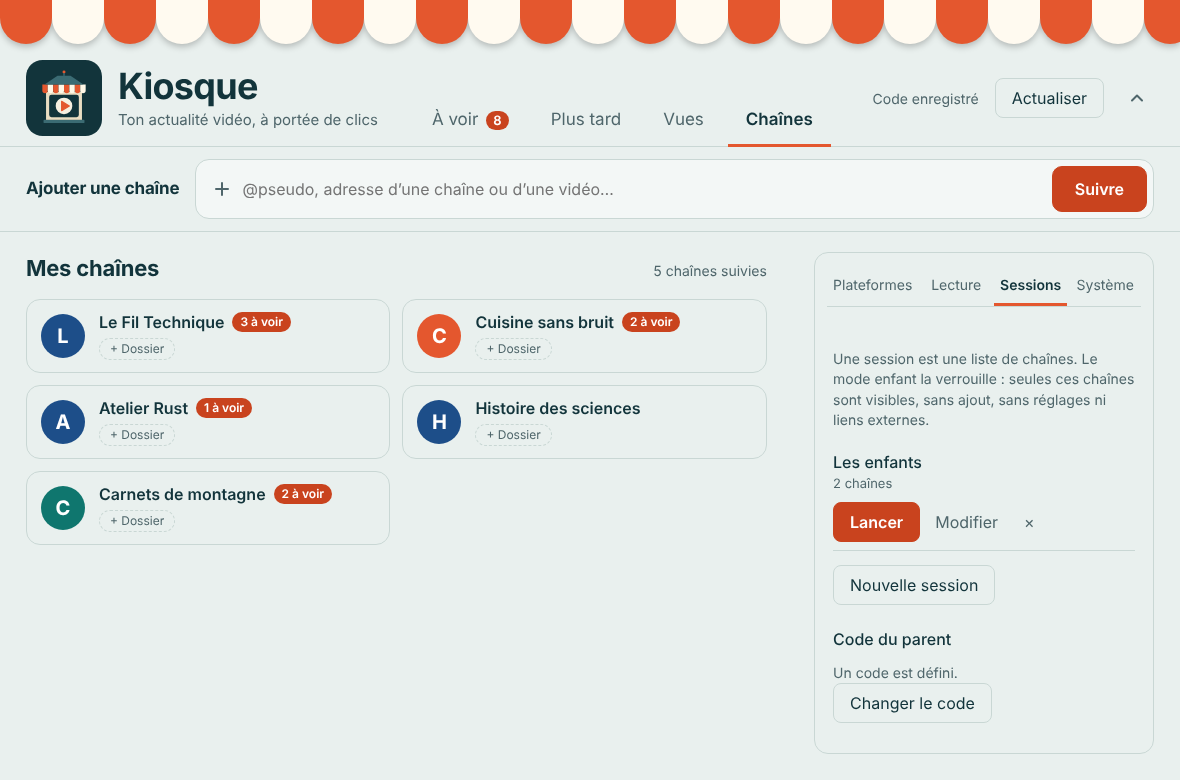
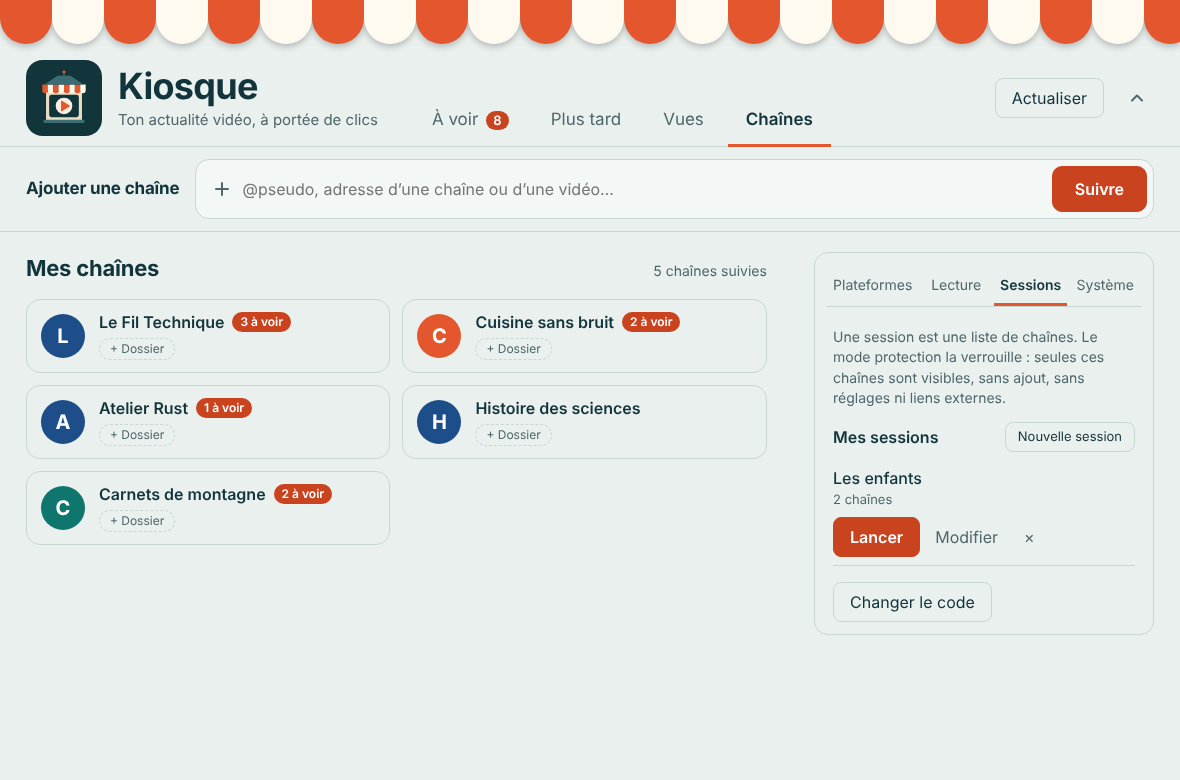
Mise à jour 2026-10-29 18:40 (v0.3.6)

diff --git a/src/main.js b/src/main.js
@@ -40,7 +40,7 @@ const app = {
   sub: (() => { try { return localStorage.getItem('sub') || 'platforms'; } catch { return 'mine'; } })(),
   version: '',
   busy: false,
-  kid: { active: false, session_name: '', has_pin: false }, // mode enfant
+  kid: { active: false, session_name: '', has_pin: false }, // mode protection
   sessions: [],
   sessionEdit: null, // session en cours de modification : { id, name, channels:Set }
   pinForm: false,
@@ -352,7 +352,7 @@ function emptyState() {
   const n = app.channels.length;
   if (app.kid.active && n === 0) {
     return `<div class="empty"><img src="logo.svg" alt=""><h2>${t('Aucune chaîne dans cette session')}</h2>
-      <p>${t('Un parent peut en ajouter dans Chaînes → Sessions.')}</p></div>`;
+      <p>${t('Quitte le mode protection pour ajouter des chaînes à cette session.')}</p></div>`;
   }
   if (app.tab === 'new') {
     if (n === 0) {
@@ -519,9 +519,13 @@ const PLAYER_HINTS = {
   browser: 'La vidéo s’ouvre dans ton navigateur habituel.',
 }; // traduits à l'affichage
 
-// ---------- sessions et mode enfant ----------
+// ---------- sessions et mode protection ----------
 
 function sessionsPanel() {
+  return `<div class="sessions-panel">${sessionsPanelBody()}</div>`;
+}
+
+function sessionsPanelBody() {
   const ed = app.sessionEdit;
   if (ed) {
     const rows = app.channels.map((c) => `<label class="pick"><input type="checkbox" data-pick="${esc(c.id)}" ${ed.channels.has(c.id) ? 'checked' : ''}>
@@ -536,29 +540,36 @@ function sessionsPanel() {
   const list = app.sessions.length
     ? `<ul class="sessions">${app.sessions.map((s) => `<li data-session="${esc(s.id)}">
         <span class="sname">${esc(s.name)}<span class="note">${tn(s.channels.length, '{n} chaîne', '{n} chaînes')}</span></span>
-        <span class="sact"><button type="button" class="primary small" data-act="session-launch">${t('Lancer')}</button>
+        <span class="sact">${app.kid.has_pin ? `<button type="button" class="primary small" data-act="session-launch">${t('Lancer')}</button>` : ''}
           <button type="button" class="quiet" data-act="session-edit">${t('Modifier')}</button>
           <button type="button" class="quiet" data-act="session-delete" aria-label="${esc(t('Supprimer {name}', { name: s.name }))}" title="${esc(t('Supprimer cette session'))}">×</button></span></li>`).join('')}</ul>`
     : `<p class="hint">${t('Aucune session pour l’instant.')}</p>`;
-  const pin = app.kid.has_pin
-    ? `<p class="hint">${t('Un code est défini.')}</p>`
-    : `<p class="hint">${t('Aucun code : choisis-en un avant de lancer le mode enfant.')}</p>`;
-  const pinForm = app.pinForm
-    ? `${app.kid.has_pin ? `<input id="pin-current" class="text" type="password" inputmode="numeric" maxlength="4" autocomplete="off" placeholder="${esc(t('Code actuel'))}" aria-label="${esc(t('Code actuel'))}">` : ''}
-       <input id="pin-new" class="text" type="password" inputmode="numeric" maxlength="4" autocomplete="off" placeholder="${esc(t('Nouveau code (4 chiffres)'))}" aria-label="${esc(t('Nouveau code (4 chiffres)'))}">
-       <div class="row-actions"><button type="button" class="primary" data-act="pin-save">${t('Enregistrer')}</button>
-         <button type="button" class="quiet" data-act="pin-cancel">${t('Annuler')}</button></div>`
-    : `<button type="button" data-act="pin-open">${app.kid.has_pin ? t('Changer le code') : t('Choisir un code')}</button>`;
-  return `<p class="hint">${t('Une session est une liste de chaînes. Le mode enfant la verrouille : seules ces chaînes sont visibles, sans ajout, sans réglages ni liens externes.')}</p>
+  // Assistant : pas de session = pas de code. Dès la première session, on choisit le code (vide = 0000).
+  // Ensuite la zone du code reste repliée derrière « Changer le code ».
+  const hasPin = app.kid.has_pin;
+  const hasSessions = app.sessions.length > 0;
+  const codeForm = !hasPin || app.pinForm;
+  let codeZone = '';
+  if (hasSessions || hasPin) {
+    codeZone = codeForm
+      ? `<div class="field pin"><span class="switch-label">${t('Code de protection')}</span>
+          <p class="hint">${hasPin ? t('Ce code est unique : il est valable pour toutes les sessions.') : t('Valable pour toutes les sessions. Laisse vide pour utiliser 0000.')}</p>
+          ${hasPin ? `<input id="pin-current" class="text" type="password" inputmode="numeric" maxlength="4" autocomplete="off" placeholder="${esc(t('Code actuel'))}" aria-label="${esc(t('Code actuel'))}">` : ''}
+          <input id="pin-new" class="text" type="password" inputmode="numeric" maxlength="4" autocomplete="off" placeholder="${esc(t('Nouveau code (4 chiffres)'))}" aria-label="${esc(t('Nouveau code (4 chiffres)'))}">
+          <div class="row-actions"><button type="button" class="primary" data-act="pin-save">${t('Enregistrer')}</button>
+            ${hasPin ? `<button type="button" class="quiet" data-act="pin-cancel">${t('Annuler')}</button>` : ''}</div></div>`
+      : `<div class="field pin"><button type="button" data-act="pin-open">${t('Changer le code')}</button></div>`;
+  }
+  return `<p class="hint">${t('Une session est une liste de chaînes. Le mode protection la verrouille : seules ces chaînes sont visibles, sans ajout, sans réglages ni liens externes.')}</p>
+    <div class="sp-head"><span class="switch-label">${t('Mes sessions')}</span>${codeForm && hasSessions ? '' : `<button type="button" data-act="session-new">${t('Nouvelle session')}</button>`}</div>
     ${list}
-    <div class="row-actions"><button type="button" data-act="session-new">${t('Nouvelle session')}</button></div>
-    <div class="field pin"><span class="switch-label">${t('Code du parent')}</span>${pin}${pinForm}</div>`;
+    ${codeZone}`;
 }
 
 /** Sauvegarde et transfert des sessions (réglages Système). */
 function sessionsBackup() {
   return `<div class="field backup"><span class="switch-label">${t('Sauvegarde des sessions')}</span>
-      <p class="hint">${t('Gère tes sessions dans un fichier pour les exporter ou les importer sur un autre ordinateur. Le code du parent s’il existe n’y est pas inclus. Il faut en recréer un nouveau.')}</p>
+      <p class="hint">${t('Gère tes sessions dans un fichier pour les exporter ou les importer sur un autre ordinateur. Le code de protection s’il existe n’y est pas inclus. Il faut en recréer un nouveau.')}</p>
       <div class="row-actions"><button type="button" data-act="sessions-export"${app.sessions.length ? '' : ' disabled'}>${t('Exporter')}</button>
         <button type="button" data-act="sessions-import">${t('Importer')}</button>
         <input id="session-file" type="file" accept=".json,application/json" hidden></div>
@@ -574,7 +585,7 @@ function missingPanel() {
       <button type="button" class="quiet" data-act="missing-dismiss">${t('Ignorer')}</button></div></div>`;
 }
 
-/** Recharge tout après l'entrée ou la sortie du mode enfant. */
+/** Recharge tout après l'entrée ou la sortie du mode protection. */
 async function reloadAfterKidChange() {
   closePlayer();
   app.kid = await invoke('kid_status');
@@ -594,14 +605,14 @@ function applyKid() {
   const button = document.querySelector('#kid-exit');
   button.hidden = !on;
   if (on) {
-    button.querySelector('.kid-name').textContent = t('Mode enfant');
-    button.title = t('Session : {name} — quitter le mode enfant (code du parent)', { name: app.kid.session_name });
+    button.querySelector('.kid-name').textContent = t('Mode protection');
+    button.title = t('Session : {name} — quitter le mode protection (code de protection)', { name: app.kid.session_name });
     document.querySelector('#update').hidden = true;
     if (app.tab === 'channels') app.tab = 'new';
   }
 }
 
-/** Demande le code du parent dans une fenêtre ; `action(code)` doit lever une erreur si le code est refusé. */
+/** Demande le code de protection dans une fenêtre ; `action(code)` doit lever une erreur si le code est refusé. */
 function askPin(title, hint, action) {
   const modal = document.querySelector('#pin-modal');
   const input = document.querySelector('#pin-input');
@@ -642,10 +653,10 @@ function askPin(title, hint, action) {
 }
 
 document.querySelector('#kid-exit').addEventListener('click', async () => {
-  const done = await askPin(t('Code du parent'), t('Saisis le code pour quitter le mode enfant.'), (pin) => invoke('kid_stop', { pin }));
+  const done = await askPin(t('Code de protection'), t('Saisis le code pour quitter le mode protection.'), (pin) => invoke('kid_stop', { pin }));
   if (!done) return;
   await reloadAfterKidChange();
-  setStatus(t('Mode enfant désactivé'));
+  setStatus(t('Mode protection désactivé'));
 });
 
 view.addEventListener('input', (event) => {
@@ -666,7 +677,7 @@ view.addEventListener('change', async (event) => {
     if (!app.kid.has_pin) {
       let byDefault = false;
       const done = await askPin(
-        t('Code du parent'),
+        t('Code de protection'),
         t('Choisis un code à 4 chiffres pour cet ordinateur. Laisse vide pour utiliser 0000.'),
         (pin) => {
           byDefault = pin.trim() === '';
@@ -674,7 +685,7 @@ view.addEventListener('change', async (event) => {
         },
       );
       app.kid = await invoke('kid_status');
-      if (done) setStatus(byDefault ? t('Code 0000 défini : à changer.') : t('Code du parent enregistré'));
+      if (done) setStatus(byDefault ? t('Code 0000 défini : à changer.') : t('Code de protection enregistré'));
       renderChannels();
     }
   } catch (err) {
@@ -921,11 +932,11 @@ view.addEventListener('click', async (event) => {
         if (!app.kid.has_pin) {
           app.pinForm = true;
           renderChannels();
-          return setStatus(t('Choisis d’abord un code du parent.'), 'error');
+          return setStatus(t('Choisis d’abord un code de protection.'), 'error');
         }
         await invoke('kid_start', { sessionId: button.closest('[data-session]').dataset.session });
         await reloadAfterKidChange();
-        return setStatus(t('Mode enfant activé'));
+        return setStatus(t('Mode protection activé'));
       }
       case 'sessions-export': {
         const path = await invoke('sessions_export');
@@ -956,11 +967,14 @@ view.addEventListener('click', async (event) => {
         return renderChannels();
       case 'pin-save': {
         const current = document.querySelector('#pin-current')?.value ?? null;
-        await invoke('kid_set_pin', { pin: document.querySelector('#pin-new').value, current });
+        let pin = document.querySelector('#pin-new').value;
+        const byDefault = !app.kid.has_pin && pin.trim() === '';
+        if (byDefault) pin = '0000';
+        await invoke('kid_set_pin', { pin, current });
         app.kid = await invoke('kid_status');
         app.pinForm = false;
         renderChannels();
-        return setStatus(t('Code enregistré'));
+        return setStatus(byDefault ? t('Code 0000 défini : à changer.') : t('Code enregistré'));
       }
       case 'reset-filters':
         minimizePlayer();

diff --git a/src/i18n.js b/src/i18n.js
@@ -141,11 +141,14 @@ const EN = {
   'Automatique': 'Automatic',
   '{label} activé': '{label} on',
   '{label} désactivé': '{label} off',
+  'Valable pour toutes les sessions. Laisse vide pour utiliser 0000.': 'Applies to all sessions. Leave empty to use 0000.',
+  'Mes sessions': 'My sessions',
+  'Ce code est unique : il est valable pour toutes les sessions.': 'This code is unique: it applies to all sessions.',
   'Choisis un code à 4 chiffres pour cet ordinateur. Laisse vide pour utiliser 0000.': 'Choose a 4-digit code for this computer. Leave empty to use 0000.',
   'Code 0000 défini : à changer.': 'Code 0000 set: change it.',
-  'Code du parent enregistré': 'Parent code saved',
+  'Code de protection enregistré': 'Protection code saved',
   'Sauvegarde des sessions': 'Sessions backup',
-  'Gère tes sessions dans un fichier pour les exporter ou les importer sur un autre ordinateur. Le code du parent s’il existe n’y est pas inclus. Il faut en recréer un nouveau.': 'Manage your sessions in a file to export them or import them on another computer. The parent code, if there is one, is not included: you need to create a new one.',
+  'Gère tes sessions dans un fichier pour les exporter ou les importer sur un autre ordinateur. Le code de protection s’il existe n’y est pas inclus. Il faut en recréer un nouveau.': 'Manage your sessions in a file to export them or import them on another computer. The protection code, if there is one, is not included: you need to create a new one.',
   'Exporter': 'Export',
   'Importer': 'Import',
   '{n} chaîne de ces sessions n’est pas encore suivie ici :': '{n} channel from these sessions is not followed here yet:',
@@ -158,10 +161,10 @@ const EN = {
   '{n} chaîne(s) non ajoutée(s) : {detail}': '{n} channel(s) not added: {detail}',
   '{n} chaîne ajoutée': '{n} channel added',
   '{n} chaînes ajoutées': '{n} channels added',
-  'Mode enfant': 'Kid mode',
-  'Session : {name} — quitter le mode enfant (code du parent)': 'Session: {name} — leave kid mode (parent code)',
+  'Mode protection': 'Protection mode',
+  'Session : {name} — quitter le mode protection (code de protection)': 'Session: {name} — leave protection mode (protection code)',
   'Aucune chaîne dans cette session': 'No channels in this session',
-  'Un parent peut en ajouter dans Chaînes → Sessions.': 'A parent can add some in Channels → Sessions.',
+  'Quitte le mode protection pour ajouter des chaînes à cette session.': 'Leave protection mode to add channels to this session.',
   'Sessions': 'Sessions',
   'Nom de la session': 'Session name',
   'Ex. : Les enfants': 'e.g. The kids',
@@ -176,25 +179,24 @@ const EN = {
   'Supprimer cette session': 'Delete this session',
   'Aucune session pour l’instant.': 'No sessions yet.',
   'Un code est défini.': 'A code is set.',
-  'Aucun code : choisis-en un avant de lancer le mode enfant.': 'No code yet: choose one before starting kid mode.',
   'Code actuel': 'Current code',
   'Nouveau code (4 chiffres)': 'New code (4 digits)',
   'Changer le code': 'Change code',
   'Choisir un code': 'Choose a code',
-  'Une session est une liste de chaînes. Le mode enfant la verrouille : seules ces chaînes sont visibles, sans ajout, sans réglages ni liens externes.': 'A session is a list of channels. Kid mode locks the app to it: only those channels are visible, with no adding, no settings and no external links.',
+  'Une session est une liste de chaînes. Le mode protection la verrouille : seules ces chaînes sont visibles, sans ajout, sans réglages ni liens externes.': 'A session is a list of channels. Protection mode locks the app to it: only those channels are visible, with no adding, no settings and no external links.',
   'Nouvelle session': 'New session',
-  'Code du parent': 'Parent code',
-  'Mode enfant : {name}': 'Kid mode: {name}',
-  'Saisis le code pour quitter le mode enfant.': 'Enter the code to leave kid mode.',
-  'Mode enfant désactivé': 'Kid mode off',
+  'Code de protection': 'Protection code',
+  'Mode protection : {name}': 'Protection mode: {name}',
+  'Saisis le code pour quitter le mode protection.': 'Enter the code to leave protection mode.',
+  'Mode protection désactivé': 'Protection mode off',
   'Session enregistrée': 'Session saved',
   'Session supprimée': 'Session deleted',
-  'Choisis d’abord un code du parent.': 'Choose a parent code first.',
-  'Mode enfant activé': 'Kid mode on',
+  'Choisis d’abord un code de protection.': 'Choose a protection code first.',
+  'Mode protection activé': 'Protection mode on',
   'Code enregistré': 'Code saved',
   'Valider': 'OK',
-  'Quitter le mode enfant': 'Leave kid mode',
-  'Quitter le mode enfant (code du parent)': 'Leave kid mode (parent code)',
+  'Quitter le mode protection': 'Leave protection mode',
+  'Quitter le mode protection (code de protection)': 'Leave protection mode (protection code)',
 };
 
 const AVAILABLE_LANGUAGES = ['fr', 'en'];

diff --git a/src/style.css b/src/style.css
@@ -791,3 +791,17 @@ body.kid .tabs [data-tab="channels"] { display: none; }
   @keyframes toast-in { from { opacity: 0; transform: translateX(-16px); } }
 }
 @media (prefers-reduced-motion: reduce) { .toast.out { opacity: 0; } .toast-icon { animation: none !important; } }
+
+/* Onglet Sessions : moins d'air en haut et en bas, bouton « Nouvelle session » avec le titre de la liste. */
+.sessions-panel { margin: -10px 0 -16px; }
+.sessions-panel > :first-child { margin-top: 0; }
+.sessions-panel > :last-child { margin-bottom: 0; }
+.sp-head { display: flex; align-items: center; justify-content: space-between; gap: 8px; margin-top: 14px; }
+.sp-head .switch-label { font-weight: 600; }
+.sp-head button { padding: 4px 12px; font-size: 13px; }
+.sessions { margin-top: 6px; }
+.field.pin { margin-top: 16px; }
+.field.pin .hint { margin: 0 0 8px; }
+.field.pin .text { max-width: none; }
+.kid-badge { max-width: none; flex-shrink: 0; }
+.sessions-panel { margin-bottom: -4px; }

diff --git a/src/index.html b/src/index.html
@@ -46,7 +46,7 @@
 
       <div class="top-actions">
         <button id="kid-exit" class="kid-badge" type="button" hidden
-                title="Quitter le mode enfant (code du parent)" data-t-title="Quitter le mode enfant (code du parent)" data-t-aria="Quitter le mode enfant">
+                title="Quitter le mode protection (code de protection)" data-t-title="Quitter le mode protection (code de protection)" data-t-aria="Quitter le mode protection">
           <svg viewBox="0 0 20 20" width="16" height="16" aria-hidden="true" focusable="false"><path d="M6 9V6.5a4 4 0 0 1 8 0V9M4.5 9h11v8h-11z" fill="none" stroke="currentColor" stroke-width="1.8" stroke-linejoin="round"/></svg>
           <span class="kid-name"></span>
         </button>

diff --git a/src-tauri/src/lib.rs b/src-tauri/src/lib.rs
@@ -27,8 +27,8 @@ struct AppState {
 fn require_unlocked(state: &AppState) -> Result<(), String> {
     if kids::active(&state.db).ok().flatten().is_some() {
         return Err(tr!(
-            "Indisponible en mode enfant : un parent doit d'abord le quitter.",
-            "Not available in kids mode: a parent must leave it first."
+            "Indisponible en mode protection : il faut d'abord le quitter.",
+            "Not available in protection mode: leave it first."
         ));
     }
     Ok(())

diff --git a/README.md b/README.md
@@ -82,23 +82,25 @@ Sous Windows, `construire.bat` fabrique l'installeur avec ton Rust local (`src-t
 
 Les titres entièrement en majuscules sont remis en minuscules (le titre d'origine s'affiche au survol) et les miniatures sont masquées par défaut (case à cocher dans Chaînes).
 
-## Sessions et mode enfant
+## Sessions et mode protection
 
-Dans **Chaînes → Sessions**, tu crées des sessions : des listes de chaînes (« Les enfants », « Info »…). Le **mode enfant** verrouille Kiosque sur une session :
+Dans **Chaînes → Sessions**, tu crées des sessions : des listes de chaînes (« Les enfants », « Info »…). Le **mode protection** verrouille Kiosque sur une session :
 
 - seules les chaînes de la session sont visibles (vidéos, compteurs, filtres) ;
 - plus d'onglet Chaînes, de réglages, d'ajout de chaîne, de liens externes ni de mise à jour ;
-- on en sort avec le **code du parent** (4 chiffres, à définir avant le premier lancement), via le bouton cadenas en haut à droite.
+- on en sort avec le **code de protection** (4 chiffres, à définir avant le premier lancement), via le bouton cadenas en haut à droite.
 
 Le verrou est appliqué aussi côté Rust (l'interface seule ne suffit pas) ; le code est stocké salé et haché, et les essais ratés sont espacés dans le temps. Le mode reste actif après redémarrage.
 
-![Onglet Sessions : liste des sessions et code du parent](docs/apercu-sessions.png)
+![Onglet Sessions : liste des sessions et code de protection](docs/apercu-sessions.png)
 
-![Kiosque en mode enfant : seules les chaînes de la session](docs/apercu-mode-enfant.png)
+![Kiosque en mode protection : seules les chaînes de la session](docs/apercu-mode-protection.png)
 
-![Fenêtre du code du parent pour quitter le mode enfant](docs/apercu-code-parent.png)
+![Fenêtre du code de protection pour quitter le mode protection](docs/apercu-code-protection.png)
 
-**Sauvegarde et transfert** : dans Chaînes → Système, « Exporter » écrit `kiosque-sessions.json` dans le dossier Téléchargements (noms de sessions et chaînes, jamais le code du parent). Sur un autre ordinateur, « Importer » lit ce fichier sans jamais écraser une session existante (un nom déjà pris reçoit un numéro). Les chaînes que cet ordinateur ne suit pas encore sont listées, et « Suivre les chaînes manquantes » les ajoute (une plateforme désactivée n'est pas activée d'office). Si le nouvel ordinateur n'a pas encore de code du parent, Kiosque t'en fait créer un après l'import (laissé vide, il vaut `0000` : change-le). Un code déjà défini n'est jamais modifié par un import.
+![Sauvegarde des sessions : exporter, importer](docs/apercu-sauvegarde.png)
+
+**Sauvegarde et transfert** : dans Chaînes → Système, « Exporter » écrit `kiosque-sessions.json` dans le dossier Téléchargements (noms de sessions et chaînes, jamais le code de protection). Sur un autre ordinateur, « Importer » lit ce fichier sans jamais écraser une session existante (un nom déjà pris reçoit un numéro). Les chaînes que cet ordinateur ne suit pas encore sont listées, et « Suivre les chaînes manquantes » les ajoute (une plateforme désactivée n'est pas activée d'office). Si le nouvel ordinateur n'a pas encore de code de protection, Kiosque t'en fait créer un après l'import (laissé vide, il vaut `0000` : change-le). Un code déjà défini n'est jamais modifié par un import.
 
 **Code oublié** : il n'existe volontairement aucun moyen de le contourner. Il faut supprimer la base de données (`kiosque.sqlite3`, voir « Où sont les données ») et réajouter tes chaînes, ou réinstaller après avoir supprimé le dossier de données.
 
